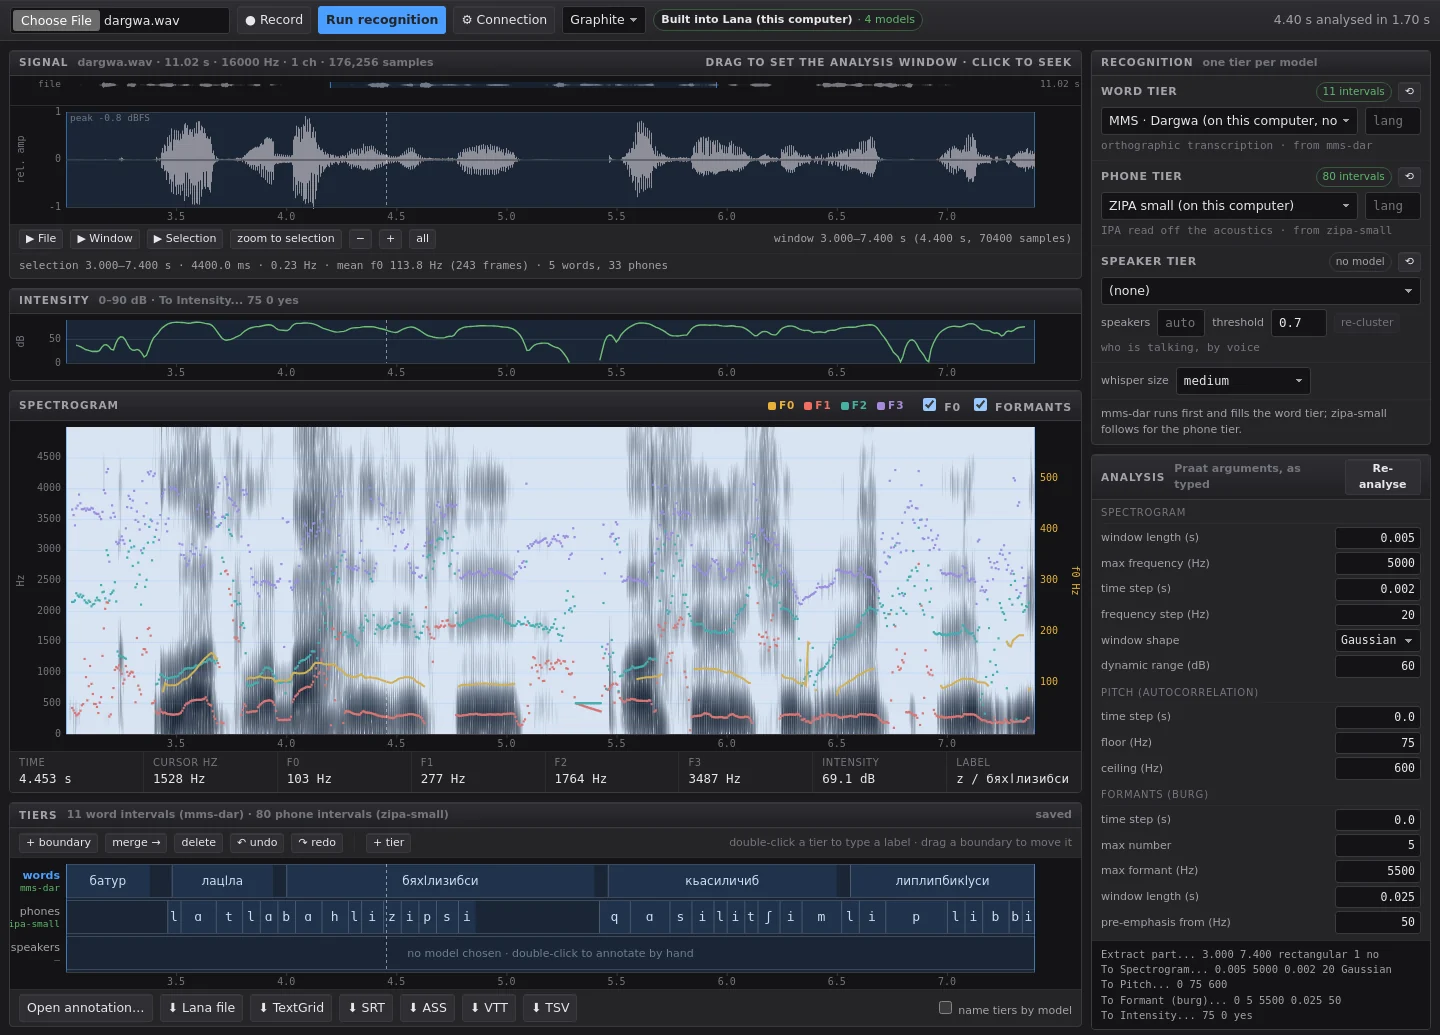
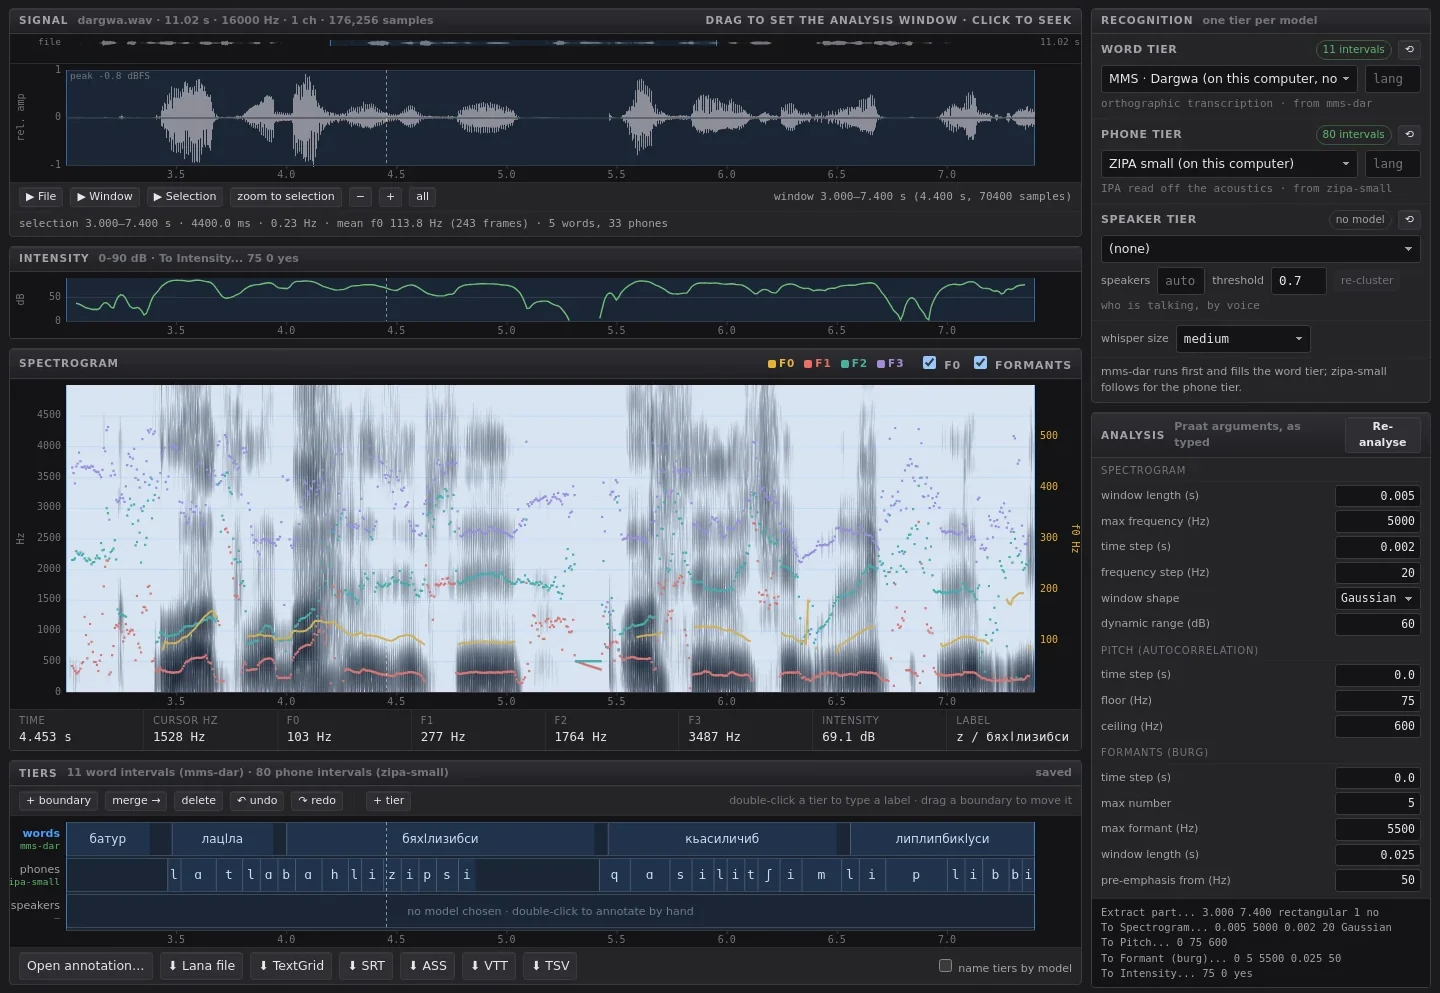
openlana.app: privacy, models for linguists and custom tiers, with live diagrams
New sections: "Offline analysis completely on your computer without
compromising performance" (an animated diagram of what stays on the
computer and the one thing that comes in: a model download), "Flexible for
your workflow" (IPA turning into ARPABET interval by interval, in CMU or
TIMIT symbols, with the flagged flap) and "Latest models made easy for
linguists". New screenshots from 0.1.4: the grouped model settings with the
privacy note, and an English recording with ARPABET and notes tiers.
Headings no longer use the "noun, adverb" pattern. Animations pause for
reduced motion and off screen.

App fixes found while taking them:
- Choosing a tier in the segment table's own menu did not change the table
  (since setActiveLane compared with the menu, which already showed the new
  tier). Regression from 0.1.3's layout fixes.
- The model name under each tier's name ran off the left of the gutter.

Claude-Session: https://claude.ai/code/session_0178Mywv5GMbvASgqpwnLs68

diff --git a/site/index.html b/site/index.html
@@ -101,6 +101,51 @@
   .kbd{font-family:var(--mono);font-size:12.5px;color:var(--ink);background:var(--card);
     border:1px solid var(--line);border-radius:6px;padding:1px 6px;white-space:nowrap}
 
+  /* ---- diagrams and live strips beside the screenshots ---- */
+  .card{background:var(--card);border:1px solid var(--line);border-radius:14px;padding:22px 22px 18px}
+  .card .cap{font-size:12.5px;color:var(--faint);margin:12px 2px 0}
+  .flow svg{display:block;width:100%;max-width:620px;margin:0 auto;height:auto;overflow:visible}
+  .flow .cap{max-width:620px;margin-left:auto;margin-right:auto}
+  .flow .box{fill:none;stroke:var(--line);stroke-width:1.5}
+  .flow .boxlabel{font:600 12px var(--sans);fill:var(--dim);letter-spacing:.04em;text-transform:uppercase}
+  .flow .node rect{fill:var(--bg);stroke:var(--line);stroke-width:1.2}
+  .flow .node text{font:500 13px var(--sans);fill:var(--ink)}
+  .flow .node .sub{font:400 11px var(--sans);fill:var(--faint)}
+  .flow .wire{stroke:var(--line);stroke-width:2;fill:none}
+  .flow .wire.in{stroke-dasharray:4 5}
+  .flow .dot{fill:#2fb36b}
+  .flow .dot.dl{fill:var(--accent)}
+  .flow .icon{stroke:var(--dim);stroke-width:1.6;fill:none;stroke-linecap:round}
+  .flow .lock{fill:#2fb36b}
+  .flow .wall{stroke:#2fb36b;stroke-width:1.5;fill:none;stroke-dasharray:2 4;opacity:.7}
+  .flow .note{font:500 11.5px var(--sans);fill:#2fb36b}
+  .flow .dlnote{font:400 11px var(--sans);fill:var(--faint)}
+
+  .strip{background:var(--frame);border:1px solid var(--frame-edge);border-radius:14px;padding:18px 18px 16px;color:#e7e7ea}
+  .strip .lanes{display:grid;grid-template-columns:64px 1fr;gap:6px 10px;align-items:stretch}
+  .strip .name{font:500 11px var(--sans);color:#a2a2a9;text-align:right;align-self:center}
+  .strip .name.arpa{color:#a98ada}
+  .strip .lane{display:grid;grid-template-columns:repeat(8,1fr);background:#131315;border:1px solid #2c2c31;border-radius:5px;height:40px;overflow:hidden}
+  .strip .lane>span{display:flex;align-items:center;justify-content:center;border-left:1px solid #2c2c31;
+    font:13px var(--mono);white-space:nowrap}
+  .strip .lane>span:first-child{border-left:0}
+  .strip .lane.words>span{font:500 13px var(--sans);background:rgba(74,158,255,.10)}
+  .strip .lane.phones>span{font-family:var(--ipa);font-size:15px;background:rgba(74,158,255,.10)}
+  .strip .lane.arpa>span{background:rgba(169,138,218,.06);color:transparent;transition:background .35s,color .35s}
+  .strip .lane.arpa>span.on{background:rgba(169,138,218,.16);color:#e7e7ea}
+  .strip .lane.arpa>span.flag.on{color:#d69a3c;box-shadow:inset 0 0 0 1.5px #d69a3c}
+  .strip .foot{display:flex;justify-content:space-between;gap:12px;flex-wrap:wrap;margin-top:12px;font-size:12px;color:#8d8d96}
+  .strip .foot b{color:#d69a3c;font-weight:500;opacity:0;transition:opacity .4s}
+  .strip .foot b.on{opacity:1}
+  .strip .set{display:inline-flex;border:1px solid #34343a;border-radius:999px;overflow:hidden}
+  .strip .set button{font:500 11.5px var(--sans);color:#a2a2a9;background:none;border:0;padding:3px 10px;cursor:pointer}
+  .strip .set button[aria-pressed=true]{background:#2e2e33;color:#e7e7ea}
+
+  .withinset{position:relative}
+  .withinset .inset{position:absolute;right:-18px;bottom:-34px;width:min(26%,210px);border-radius:10px;
+    border:1px solid var(--frame-edge);box-shadow:0 18px 50px -12px rgba(0,0,0,.55);overflow:hidden}
+  @media (max-width: 900px){ .withinset .inset{display:none} }
+
   /* ---- plain sections ---- */
   .section{max-width:1080px;margin:170px auto 0;padding:0 24px}
   .section>h2{font-size:15px;font-weight:600;margin:0}
@@ -216,7 +261,7 @@
 
     <div class="row flip reveal">
       <div class="text">
-        <h2>Praat underneath, in plain sight</h2>
+        <h2>Praat's own measurements with every setting in view</h2>
         <p>Pitch, formants, intensity and the spectrogram are Praat's own, compiled to WebAssembly. Every argument is a field you can edit, and the page prints the commands it ran.</p>
       </div>
       <div class="media pair">
@@ -240,6 +285,40 @@
 
     <div class="row flip reveal">
       <div class="text">
+        <h2>Flexible for your workflow</h2>
+        <p>Add as many tiers as a project needs: notes, glosses, comments, or a copy of any tier's boundaries to annotate the same stretches again.</p>
+        <p>The phone tier converts to ARPABET in CMU or TIMIT symbols. A sound ARPABET cannot write is kept and flagged for you to decide, never guessed.</p>
+        <p>To redo part of a recording, select it and run a model on that stretch alone. The rest of the tier stays as it was, hand corrections included.</p>
+      </div>
+      <div class="media">
+        <div class="strip" id="strip" aria-label="IPA phones converted to ARPABET, interval by interval">
+          <div class="lanes">
+            <div class="name">words</div>
+            <div class="lane words"><span style="grid-column:span 4">hello</span><span style="grid-column:span 4">butter</span></div>
+            <div class="name">phones</div>
+            <div class="lane phones" id="stripIpa"></div>
+            <div class="name arpa">arpabet</div>
+            <div class="lane arpa" id="stripArpa"></div>
+          </div>
+          <div class="foot">
+            <b id="stripNote">ɾ is T or D in CMU's set, so Lana leaves it to you</b>
+            <span class="set" role="group" aria-label="Phone set">
+              <button type="button" data-set="cmu" aria-pressed="true">CMU</button>
+              <button type="button" data-set="timit" aria-pressed="false">TIMIT</button>
+            </span>
+          </div>
+        </div>
+        <div class="withinset">
+          <div class="frame"><img src="img/tiers-custom.webp" width="2146" height="1004" loading="lazy"
+            alt="Lana with four tiers on an English recording: words, IPA phones, an ARPABET tier converted from them, and a notes tier with comments on two words"></div>
+          <div class="inset"><img src="img/tier-menu.webp" width="776" height="856" loading="lazy"
+            alt="The add-tier menu: an empty tier, an empty ARPABET tier, ARPABET from phones in CMU or TIMIT symbols, and copies of each tier"></div>
+        </div>
+      </div>
+    </div>
+
+    <div class="row reveal">
+      <div class="text">
         <h2>Who is speaking</h2>
         <p>A speaker tier keys on the voice, not the words, so it needs no language code and runs alongside the recogniser.</p>
         <p>Here the speaker changes from S1 to S2 at 6.04 s, and the silence between them is left unassigned.</p>
@@ -250,26 +329,72 @@
       </div>
     </div>
 
-    <div class="row reveal">
+    <div class="row flip reveal">
       <div class="text">
-        <h2>Offline, on a laptop</h2>
-        <p>The desktop app has recognition built in. Download a model once and the recording never leaves the computer.</p>
-        <p>This Dargwa sentence was transcribed in under six seconds on a laptop CPU: words by MMS, phones by ZIPA.</p>
+        <h2>Offline analysis completely on your computer without compromising performance</h2>
+        <p>You stay in control of your data. The built-in models run on your own processor and work without a connection once downloaded, so audio, transcriptions and annotations never leave your computer.</p>
+        <p>That is what an ethics board or a data-management plan needs to hear about recordings of identifiable speakers.</p>
+        <p>It is quick too. The Dargwa sentence below took under six seconds on a laptop processor, with words from MMS and phones from ZIPA.</p>
       </div>
       <div class="media">
-        <div class="frame"><img src="img/desktop-dargwa.webp" width="1440" height="1035" loading="lazy"
+        <div class="card flow" id="flow">
+          <svg viewBox="0 0 600 292" role="img" aria-labelledby="flowTitle">
+            <title id="flowTitle">The recording, the model and the tiers all stay inside your computer. The only thing that crosses its edge is a model download from Hugging Face, coming in.</title>
+            <g class="node" transform="translate(452 8)">
+              <rect width="136" height="40" rx="9"/>
+              <text x="68" y="25" text-anchor="middle">Hugging Face</text>
+            </g>
+            <text class="dlnote" x="404" y="100" text-anchor="end">model download, once</text>
+            <path class="wire in" id="dlPath" d="M520 48 C 520 98, 300 82, 300 150"/>
+            <rect class="box" x="10" y="72" width="580" height="210" rx="16"/>
+            <text class="boxlabel" x="30" y="100">Your computer</text>
+            <g class="node" transform="translate(28 150)">
+              <rect width="150" height="64" rx="11"/>
+              <path class="icon" d="M18 32h4M26 22v20M32 16v32M38 24v16M44 28v8"/>
+              <text x="62" y="30">Recording</text><text class="sub" x="62" y="46">.wav, .mp3, …</text>
+            </g>
+            <g class="node" transform="translate(225 150)">
+              <rect width="150" height="64" rx="11"/>
+              <rect class="icon" x="16" y="20" width="24" height="24" rx="4"/><path class="icon" d="M22 16v4M34 16v4M22 44v4M34 44v4"/>
+              <text x="54" y="30">Lana + model</text><text class="sub" x="54" y="46">your processor</text>
+            </g>
+            <g class="node" transform="translate(422 150)">
+              <rect width="150" height="64" rx="11"/>
+              <path class="icon" d="M16 22h26M16 32h18M16 42h22"/>
+              <text x="54" y="30">Tiers</text><text class="sub" x="54" y="46">TextGrid, Lana file</text>
+            </g>
+            <path class="wire" id="p1" d="M178 182 H225"/>
+            <path class="wire" id="p2" d="M375 182 H422"/>
+            <circle class="dot" r="4"><animateMotion dur="1.6s" repeatCount="indefinite"><mpath href="#p1"/></animateMotion></circle>
+            <circle class="dot" r="4"><animateMotion dur="1.6s" begin=".8s" repeatCount="indefinite"><mpath href="#p1"/></animateMotion></circle>
+            <circle class="dot" r="4"><animateMotion dur="1.6s" begin=".4s" repeatCount="indefinite"><mpath href="#p2"/></animateMotion></circle>
+            <circle class="dot" r="4"><animateMotion dur="1.6s" begin="1.2s" repeatCount="indefinite"><mpath href="#p2"/></animateMotion></circle>
+            <circle class="dot dl" r="4.5" opacity="0">
+              <animateMotion dur="6s" repeatCount="indefinite" keyPoints="0;1;1" keyTimes="0;.35;1" calcMode="linear"><mpath href="#dlPath"/></animateMotion>
+              <animate attributeName="opacity" dur="6s" repeatCount="indefinite" values="0;1;1;0;0" keyTimes="0;.05;.33;.38;1"/>
+            </circle>
+            <g transform="translate(160 247)">
+              <path class="lock" d="M3 7 V5 a5 5 0 0 1 10 0 V7" fill="none" stroke="#2fb36b" stroke-width="1.8"/>
+              <rect class="lock" x="0" y="7" width="16" height="11" rx="2"/>
+            </g>
+            <text class="note" x="184" y="262">audio, transcriptions and annotations stay here</text>
+          </svg>
+          <p class="cap">Lana itself connects to two places: Hugging Face when you download a model, and GitHub to check for a newer version. Neither request carries anything about your recordings.</p>
+        </div>
+        <div class="frame"><img src="img/desktop-dargwa.webp" width="1440" height="993" loading="lazy"
           alt="Lana desktop with a Dargwa sentence: MMS words in Cyrillic and ZIPA phones in IPA under the spectrogram"></div>
       </div>
     </div>
 
-    <div class="row flip reveal">
+    <div class="row reveal">
       <div class="text">
-        <h2>Models, stated plainly</h2>
-        <p>Each model shows its tier, size and licence before anything downloads, and the files are checked against published checksums.</p>
+        <h2>Latest models made easy for linguists</h2>
+        <p>Whisper, Meta's MMS and Omnilingual, ZIPA for IPA and a speaker model, sorted by the tier they fill. Each says what it is good at, how large it is and its licence before anything downloads.</p>
+        <p>MMS covers more than 1,150 languages, added one small download at a time. Each tier's menu offers only the models made for it.</p>
       </div>
       <div class="media">
-        <div class="frame"><img src="img/desktop-models.webp" width="1440" height="900" loading="lazy"
-          alt="The settings screen listing built-in models with sizes, licences and notes"></div>
+        <div class="frame"><img src="img/desktop-models.webp" width="2120" height="1438" loading="lazy"
+          alt="The recogniser settings: a green note that built-in models keep recordings on the computer, a list of what Lana connects to, and the built-in models grouped by the tier they fill"></div>
       </div>
     </div>
   </div>
@@ -369,6 +494,61 @@
     document.getElementById('liveTag').hidden = false;
     document.querySelector('.stage').scrollIntoView({ behavior: 'smooth', block: 'start' });
   });
+
+  const still = matchMedia('(prefers-reduced-motion: reduce)').matches;
+
+  // The data-flow diagram: SMIL animation, paused for reduced motion and
+  // while off screen.
+  const flow = document.querySelector('#flow svg');
+  if (flow) {
+    if (still) flow.pauseAnimations();
+    else new IntersectionObserver(es => es.forEach(e => e.isIntersecting ? flow.unpauseAnimations() : flow.pauseAnimations()))
+      .observe(flow);
+  }
+
+  // IPA phones turning into ARPABET, one interval at a time, as Lana's
+  // converter does it (stress marks become digits on the next vowel; a
+  // flap has no CMU symbol and is flagged rather than guessed).
+  const STRIP = {
+    ipa: ['h', 'ə', 'ˈl', 'oʊ', 'b', 'ˈʌ', 'ɾ', 'ɚ'],
+    cmu: ['HH', 'AH0', 'L', 'OW1', 'B', 'AH1', 'ɾ', 'ER0'],
+    timit: ['HH', 'AX', 'L', 'OW1', 'B', 'AH1', 'DX', 'AXR'],
+  };
+  const ipaLane = document.getElementById('stripIpa'), arpaLane = document.getElementById('stripArpa');
+  if (ipaLane) {
+    ipaLane.innerHTML = STRIP.ipa.map(p => `<span>${p}</span>`).join('');
+    let set = 'cmu', timer = null, visible = false;
+    const note = document.getElementById('stripNote');
+    const draw = () => {
+      arpaLane.innerHTML = STRIP[set].map((p, i) =>
+        `<span class="${set === 'cmu' && i === 6 ? 'flag' : ''}">${p}</span>`).join('');
+      note.textContent = set === 'cmu' ? 'ɾ is T or D in CMU’s set, so Lana leaves it to you'
+                                       : 'TIMIT writes the flap as DX and reduced vowels as AX, AXR';
+    };
+    const cells = () => [...arpaLane.children];
+    const run = () => {
+      clearTimeout(timer);
+      draw(); note.classList.remove('on');
+      if (still) { cells().forEach(c => c.classList.add('on')); note.classList.add('on'); return; }
+      let i = 0;
+      const step = () => {
+        const c = cells();
+        if (i < c.length) { c[i++].classList.add('on'); timer = setTimeout(step, 260); }
+        else { note.classList.add('on'); timer = setTimeout(() => { if (visible) run(); }, 4200); }
+      };
+      timer = setTimeout(step, 500);
+    };
+    draw();
+    new IntersectionObserver(es => es.forEach(e => {
+      visible = e.isIntersecting;
+      if (visible) run(); else clearTimeout(timer);
+    }), { threshold: .4 }).observe(document.getElementById('strip'));
+    document.querySelectorAll('#strip .set button').forEach(b => b.addEventListener('click', () => {
+      set = b.dataset.set;
+      document.querySelectorAll('#strip .set button').forEach(x => x.setAttribute('aria-pressed', String(x === b)));
+      run();
+    }));
+  }
 
   // Fade sections in as they arrive.
   const io = new IntersectionObserver(es => es.forEach(e => {

diff --git a/web/index.html b/web/index.html
@@ -2009,7 +2009,12 @@ function drawTiers() {
     g.font = '9.5px ' + mono;
     // In a figure the caption says which model filled each tier, and the
     // gutter is too narrow for the name; on screen it says it here.
-    if (!RENDER) g.fillText(t.source || t.model || '—', x0 - 6, ly + lh / 2 + 7);
+    // Shortened to fit, like the name: "whisper-base" ran off the left edge.
+    if (!RENDER) {
+      let src = t.source || t.model || '—';
+      while (src.length > 1 && g.measureText(src).width > x0 - 8) src = src.slice(0, -2) + '…';
+      g.fillText(src, x0 - 6, ly + lh / 2 + 7);
+    }
 
     const busy = t.state === 'running' || t.state === 'queued' || t.state === 'partial';
     if (busy && !t.items.length) {
@@ -4401,12 +4406,15 @@ function afterEdit() {
 }
 
 function setActiveLane(key, redraw = true) {
+  const prev = S.activeLane;
   S.activeLane = key;
   const custom = !!S.extra.find(x => x.key === key);
   $('tierRen').hidden = $('tierDel').hidden = !custom;
-  const was = $('segWhich').value;
   fillSegWhich();
-  if (was !== key) { $('segWhich').value = key; renderSegments(); }
+  /* Compared with the lane that was active, not with the picker: when the
+     picker itself was changed it already shows the new tier, and comparing
+     with it left the table on the old one. */
+  if (prev !== key || $('segWhich').value !== key) { $('segWhich').value = key; renderSegments(); }
   if (redraw) drawTiers();
 }
 function fillSegWhich() {
